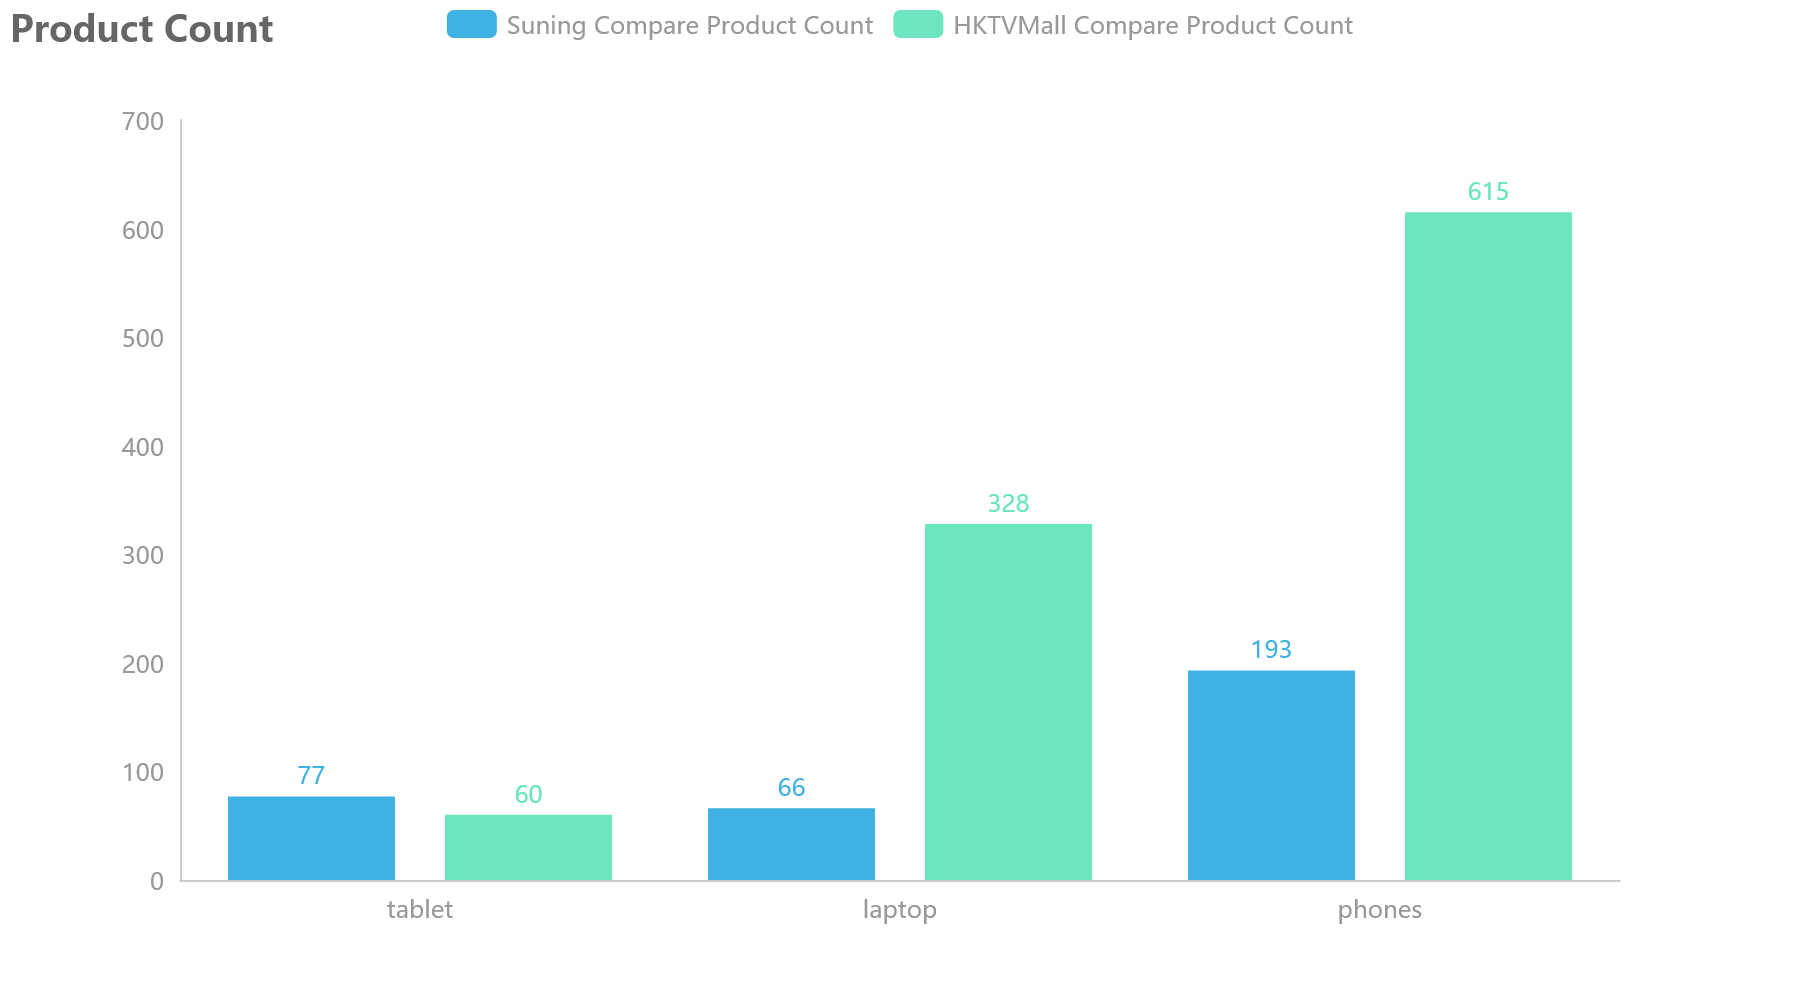
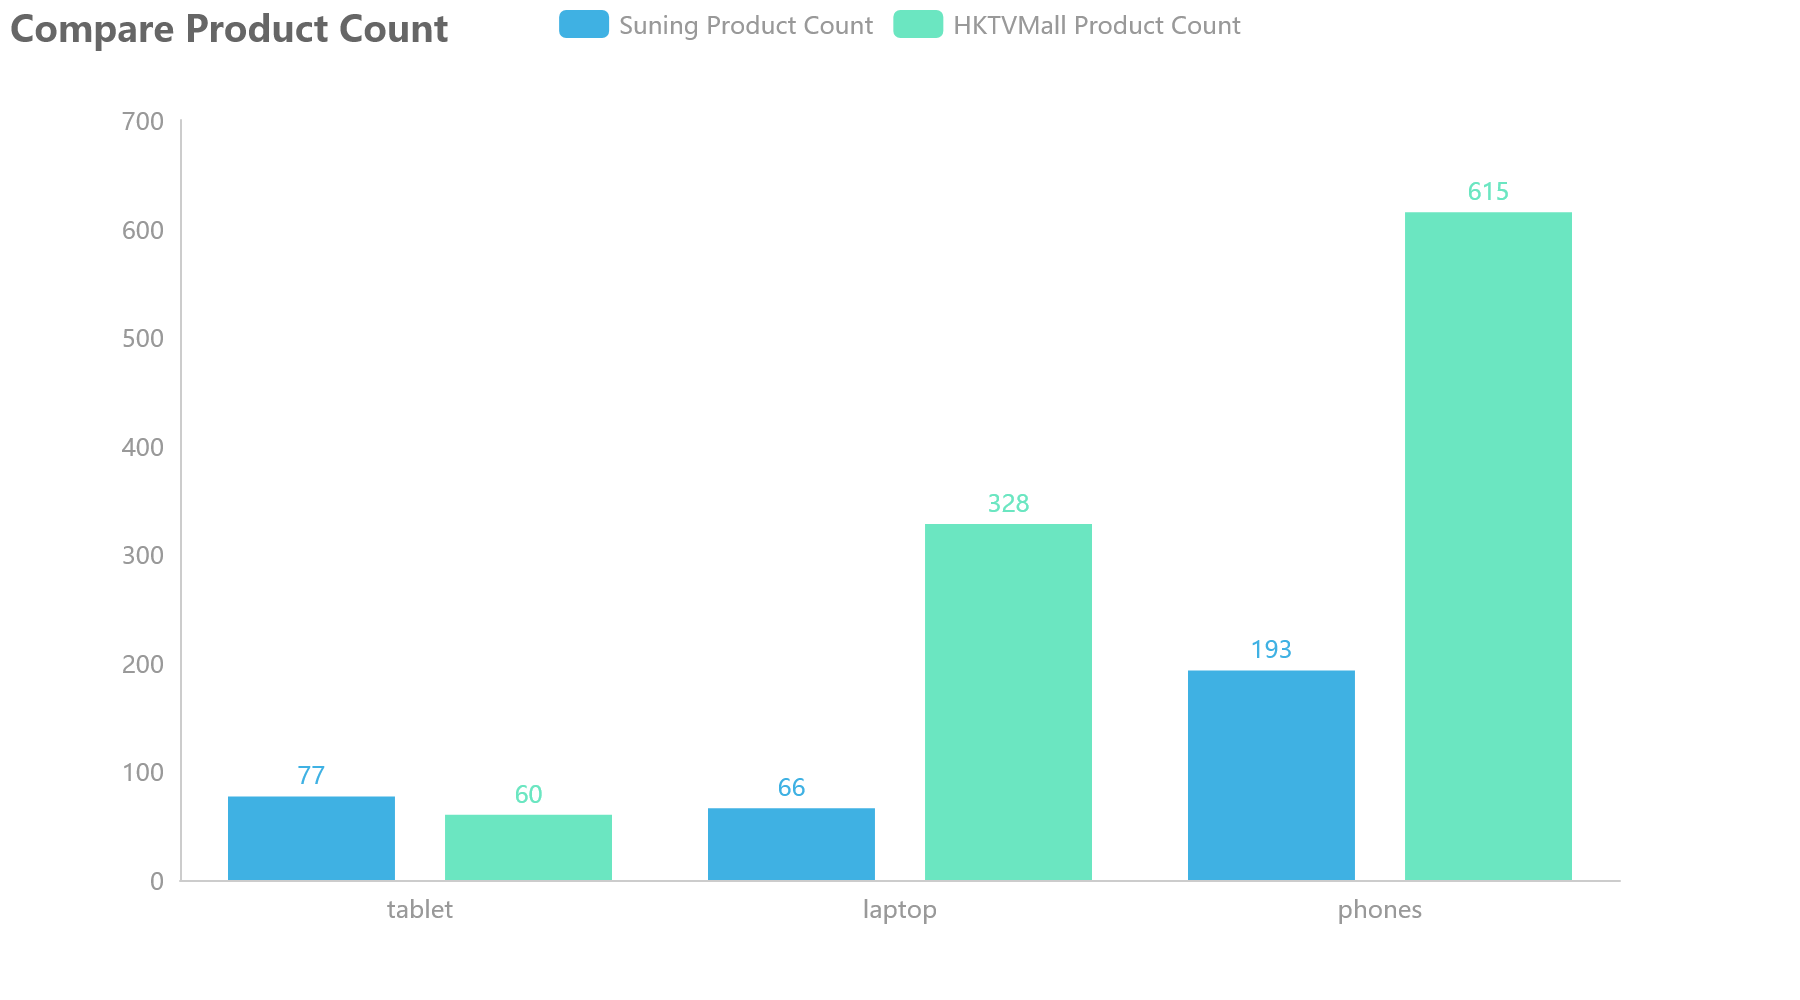
Plot some new data

Changed region(s): [[0.0, 0.0, 0.3733, 0.062], [0.5911, 0.0, 0.7467, 0.031]]

diff --git a/Data Analysis/Pictures/comapre-grouped-product-count.html b/Data Analysis/Pictures/comapre-grouped-product-count.html
@@ -8,11 +8,11 @@
 
 </head>
 <body>
-    <div id="dedcc1ab77be49e691b24eb4ef4b1065" class="chart-container" style="width:900px; height:500px;"></div>
+    <div id="c99ea27ae243446bb92a46bd5732ece8" class="chart-container" style="width:900px; height:500px;"></div>
     <script>
-        var chart_dedcc1ab77be49e691b24eb4ef4b1065 = echarts.init(
-            document.getElementById('dedcc1ab77be49e691b24eb4ef4b1065'), 'walden', {renderer: 'canvas'});
-        var option_dedcc1ab77be49e691b24eb4ef4b1065 = {
+        var chart_c99ea27ae243446bb92a46bd5732ece8 = echarts.init(
+            document.getElementById('c99ea27ae243446bb92a46bd5732ece8'), 'walden', {renderer: 'canvas'});
+        var option_c99ea27ae243446bb92a46bd5732ece8 = {
     "animation": true,
     "animationThreshold": 2000,
     "animationDuration": 1000,
@@ -24,7 +24,7 @@
     "series": [
         {
             "type": "bar",
-            "name": "Suning Grouped Product Count",
+            "name": "Suning Product Count",
             "data": [
                 10,
                 11,
@@ -39,7 +39,7 @@
         },
         {
             "type": "bar",
-            "name": "HKTVMall Grouped Product Count",
+            "name": "HKTVMall Product Count",
             "data": [
                 17,
                 88,
@@ -56,12 +56,12 @@
     "legend": [
         {
             "data": [
-                "Suning Grouped Product Count",
-                "HKTVMall Grouped Product Count"
+                "Suning Product Count",
+                "HKTVMall Product Count"
             ],
             "selected": {
-                "Suning Grouped Product Count": true,
-                "HKTVMall Grouped Product Count": true
+                "Suning Product Count": true,
+                "HKTVMall Product Count": true
             },
             "show": true,
             "padding": 5,
@@ -133,11 +133,11 @@
     ],
     "title": [
         {
-            "text": "Product Count"
+            "text": "Comapre Grouped Product Count"
         }
     ]
 };
-        chart_dedcc1ab77be49e691b24eb4ef4b1065.setOption(option_dedcc1ab77be49e691b24eb4ef4b1065);
+        chart_c99ea27ae243446bb92a46bd5732ece8.setOption(option_c99ea27ae243446bb92a46bd5732ece8);
     </script>
 </body>
 </html>

diff --git a/Data Analysis/Pictures/compare-product-count.html b/Data Analysis/Pictures/compare-product-count.html
@@ -8,11 +8,11 @@
 
 </head>
 <body>
-    <div id="59f1bf5d168a461ea7537660ad60208b" class="chart-container" style="width:900px; height:500px;"></div>
+    <div id="42b73f1d81fb4418bee2d268f82fcb89" class="chart-container" style="width:900px; height:500px;"></div>
     <script>
-        var chart_59f1bf5d168a461ea7537660ad60208b = echarts.init(
-            document.getElementById('59f1bf5d168a461ea7537660ad60208b'), 'walden', {renderer: 'canvas'});
-        var option_59f1bf5d168a461ea7537660ad60208b = {
+        var chart_42b73f1d81fb4418bee2d268f82fcb89 = echarts.init(
+            document.getElementById('42b73f1d81fb4418bee2d268f82fcb89'), 'walden', {renderer: 'canvas'});
+        var option_42b73f1d81fb4418bee2d268f82fcb89 = {
     "animation": true,
     "animationThreshold": 2000,
     "animationDuration": 1000,
@@ -24,7 +24,7 @@
     "series": [
         {
             "type": "bar",
-            "name": "Suning Compare Product Count",
+            "name": "Suning Product Count",
             "data": [
                 77,
                 66,
@@ -39,7 +39,7 @@
         },
         {
             "type": "bar",
-            "name": "HKTVMall Compare Product Count",
+            "name": "HKTVMall Product Count",
             "data": [
                 60,
                 328,
@@ -56,12 +56,12 @@
     "legend": [
         {
             "data": [
-                "Suning Compare Product Count",
-                "HKTVMall Compare Product Count"
+                "Suning Product Count",
+                "HKTVMall Product Count"
             ],
             "selected": {
-                "Suning Compare Product Count": true,
-                "HKTVMall Compare Product Count": true
+                "Suning Product Count": true,
+                "HKTVMall Product Count": true
             },
             "show": true,
             "padding": 5,
@@ -133,11 +133,11 @@
     ],
     "title": [
         {
-            "text": "Product Count"
+            "text": "Compare Product Count"
         }
     ]
 };
-        chart_59f1bf5d168a461ea7537660ad60208b.setOption(option_59f1bf5d168a461ea7537660ad60208b);
+        chart_42b73f1d81fb4418bee2d268f82fcb89.setOption(option_42b73f1d81fb4418bee2d268f82fcb89);
     </script>
 </body>
 </html>
